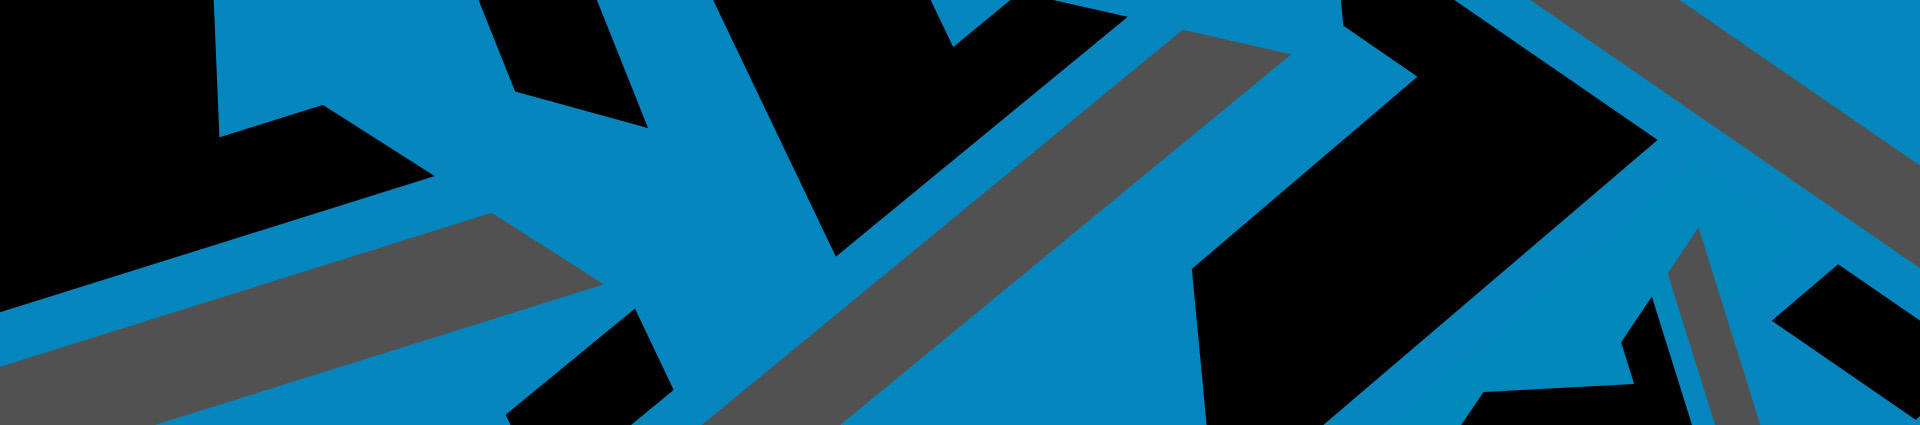
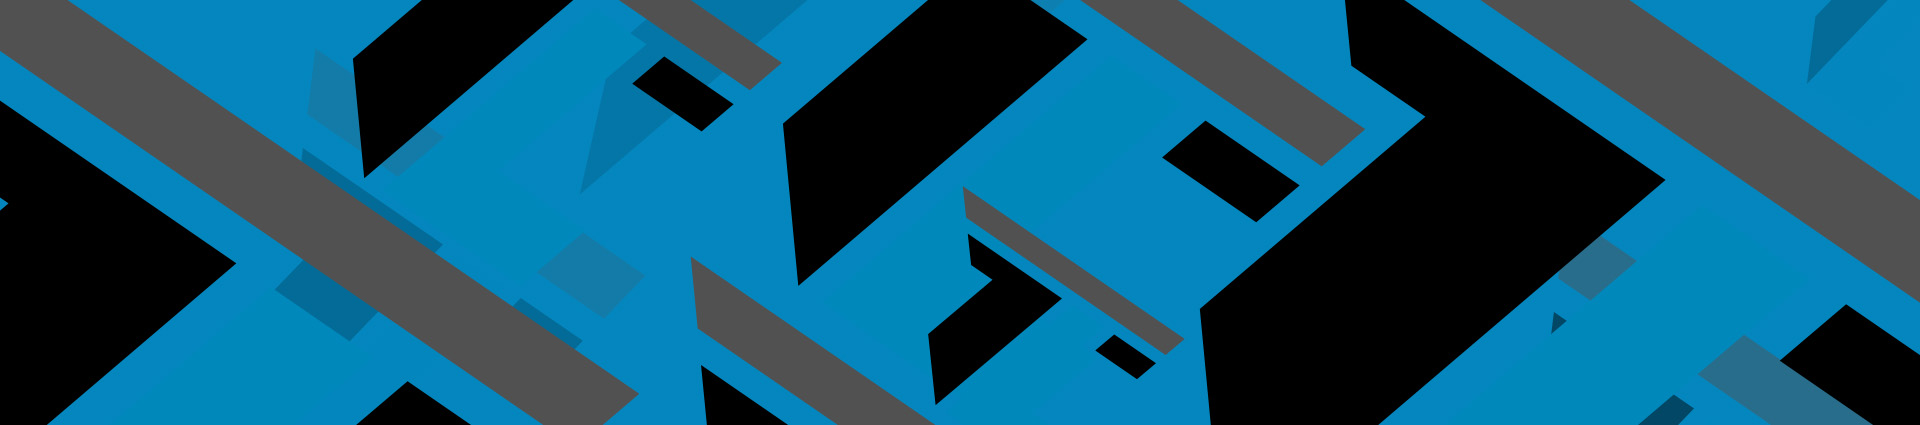
Increase sidebar/toc UI sizes and update bg
Replace assets/html/4926/assets/bg.jpg and adjust theme/css/Color.css to increase UI element sizes for improved readability and spacing. Changes include: video cue container width (240→300px), logo max-width (135→180px), button and header heights/line-heights/font-sizes (24→32px height, 11→14px font), tocData padding, toc item min-height and padding, and toc icon dimensions (11→18px). These tweaks standardize sizing across the sidebar/toc for better visual balance.

diff --git a/theme/css/Color.css b/theme/css/Color.css
@@ -418,7 +418,7 @@ video::cue {
     left: 0 !important;
     z-index: 1005 !important;
     display: none;
-    width: 240px !important;
+    width: 300px !important;
     height: calc(100% - 72px) !important;
     padding: 0 !important;
     overflow: visible !important;
@@ -447,7 +447,7 @@ video::cue {
 .logo {
     display: block;
     width: auto;
-    max-width: 135px;
+    max-width: 180px;
     margin: 18px auto 12px !important;
     padding: 0 !important;
 }
@@ -477,15 +477,15 @@ video::cue {
     justify-content: center !important;
     width: 50% !important;
     min-width: 0 !important;
-    height: 24px !important;
+    height: 32px !important;
     margin: 0 !important;
     padding: 0 !important;
     color: #FFFFFF !important;
     background: #005E80 !important;
     border: none !important;
     border-radius: 0 !important;
-    font-size: 11px !important;
-    line-height: 24px !important;
+    font-size: 14px !important;
+    line-height: 32px !important;
     font-weight: 600 !important;
     letter-spacing: 0 !important;
     cursor: pointer;
@@ -501,10 +501,10 @@ video::cue {
 /* High-specificity override beats any #sideBarHeader div rule in mobile.css */
 .sideBar #sideBarHeader > #toc_id,
 .sideBar #sideBarHeader > #trans_id {
-    height: 24px !important;
-    font-size: 11px !important;
+    height: 32px !important;
+    font-size: 14px !important;
     font-weight: 600 !important;
-    line-height: 24px !important;
+    line-height: 32px !important;
     color: #FFFFFF !important;
     background: #005E80 !important;
     border: none !important;
@@ -1389,7 +1389,7 @@ body,
 
 #tocData {
     margin: 0 !important;
-    padding: 0 !important;
+    padding: 10px 0 0 0 !important;
 }
 
 #tocData > span {
@@ -1415,11 +1415,11 @@ body,
     align-items: center;
     gap: 6px;
     width: 100%;
-    min-height: 36px;
-    padding: 4px 0 4px 8px;
+    min-height: 42px;
+    padding: 6px 0 6px 8px;
     color: #5F6670;
     border-radius: 0;
-    font-size: 13px;
+    font-size: 14px;
     font-weight: 600;
     line-height: 1.3;
     text-align: left;
@@ -1439,9 +1439,9 @@ body,
 /* Icon container */
 .toc-item-icon {
     flex-shrink: 0;
-    width: 11px;
-    height: 11px;
-    min-width: 11px;
+    width: 18px;
+    height: 18px;
+    min-width: 18px;
     display: flex;
     align-items: center;
     justify-content: center;
@@ -1450,8 +1450,8 @@ body,
 }
 
 .toc-item-icon svg {
-    width: 11px;
-    height: 11px;
+    width: 18px;
+    height: 18px;
     display: block;
     flex-shrink: 0;
 }
@@ -1460,7 +1460,7 @@ body,
 .toc-item-text {
     flex: 1;
     min-width: 0;
-    font-size: 11px;
+    font-size: 14px;
     line-height: 1.3;
     text-align: left;
     word-break: break-word;
